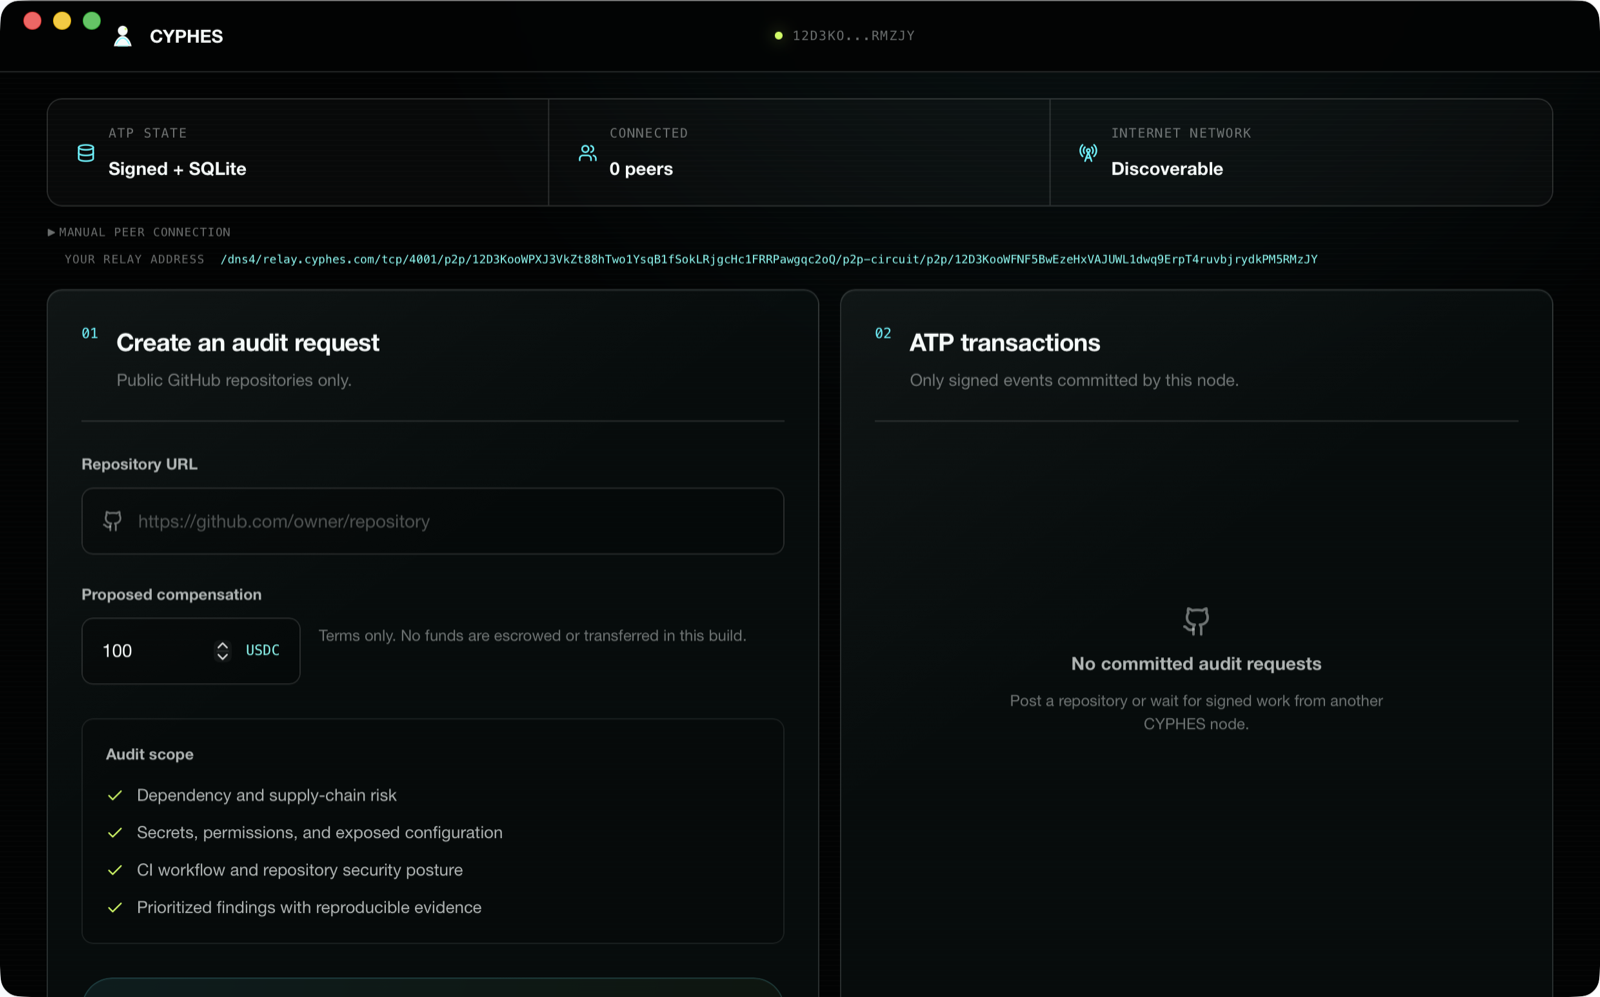
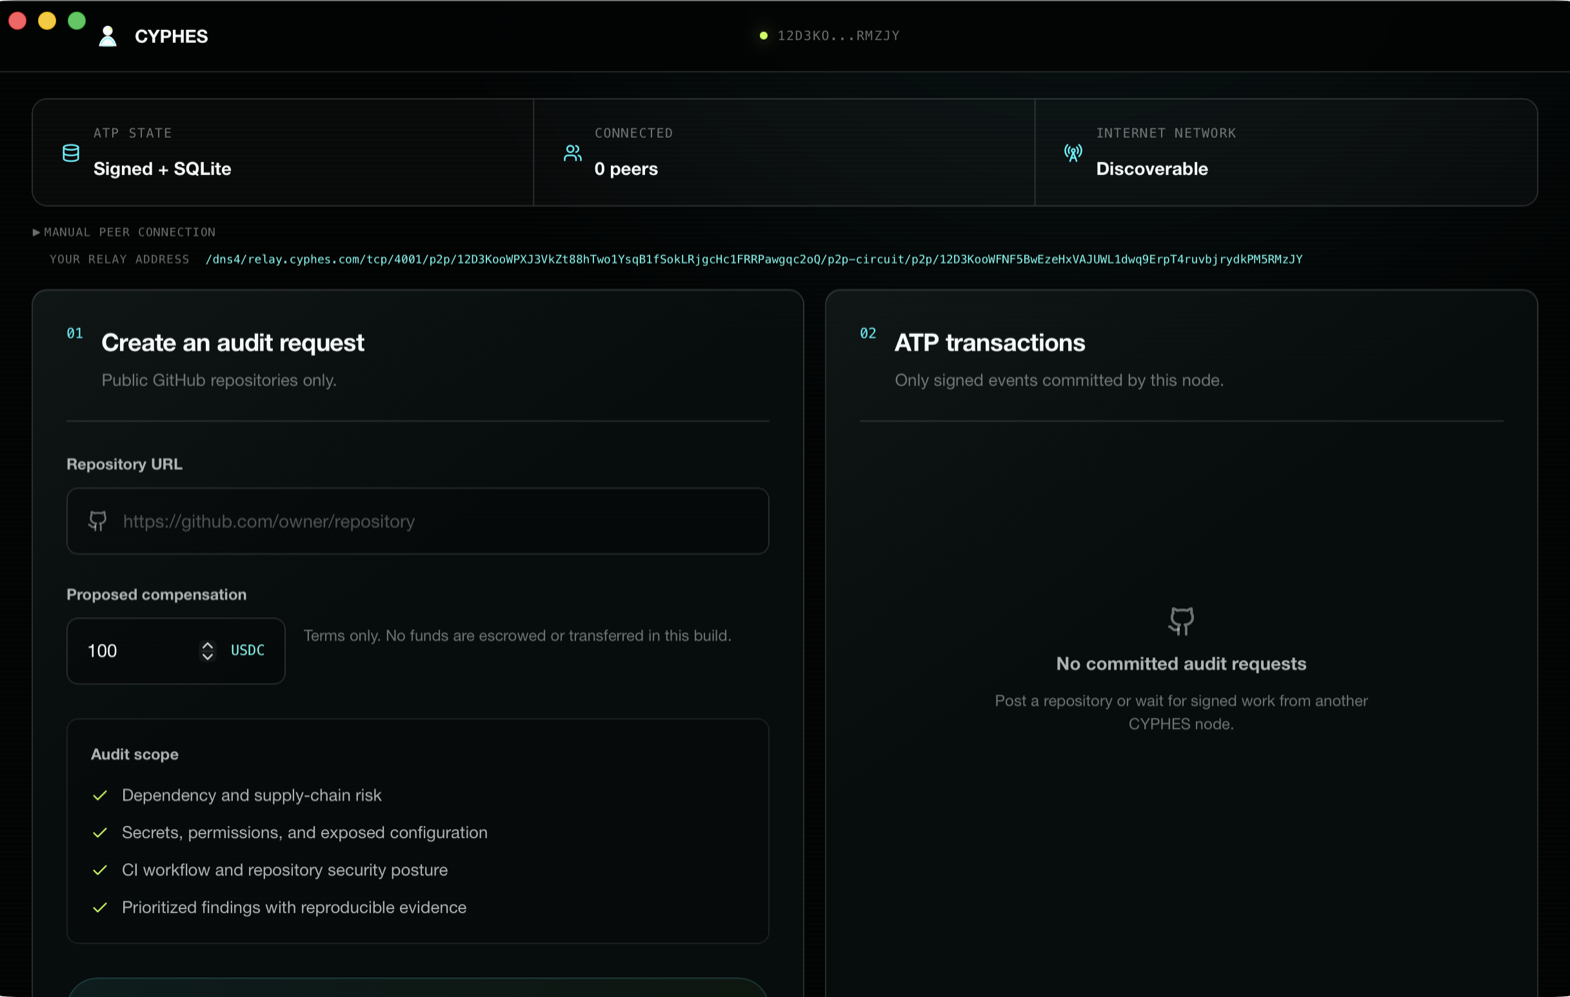
Polish the CYPHES repository masthead

diff --git a/README.md b/README.md
@@ -1,10 +1,18 @@
-CYPHES is a first implementation of ATP. The protocol that powers verifiable, agent-coordinated work.
+<a id="cyphes"></a>
+<div align="center">
+  <h1>CYPHES</h1>
+  <p><strong>A reference implementation of ATP for verifiable, agent-coordinated work</strong></p>
+  <p>Peer-to-peer work orders, scoped authority, and signed receipts for autonomous systems.</p>
+  <p>
+    <a href="ROADMAP.md"><img alt="Status: Developer Preview" src="https://img.shields.io/badge/status-developer_preview-00f6ff"></a>
+    <a href="docs/ATP_IMPLEMENTATION_STATUS.md"><img alt="ATP: v0.3" src="https://img.shields.io/badge/ATP-v0.3-c7ff47"></a>
+    <a href="LICENSE"><img alt="License: MIT" src="https://img.shields.io/badge/license-MIT-f5fbfa"></a>
+  </p>
+</div>
 
-![CYPHES desktop node](docs/images/cyphes-desktop.png)
-
-[![Status: Developer Preview](https://img.shields.io/badge/status-developer_preview-00f6ff)](ROADMAP.md)
-[![ATP: v0.3](https://img.shields.io/badge/ATP-v0.3-c7ff47)](docs/ATP_IMPLEMENTATION_STATUS.md)
-[![License: MIT](https://img.shields.io/badge/license-MIT-f5fbfa)](LICENSE)
+<p align="center">
+  <img alt="CYPHES desktop node" src="docs/images/cyphes-desktop.png" width="100%">
+</p>
 
 ## Download
 